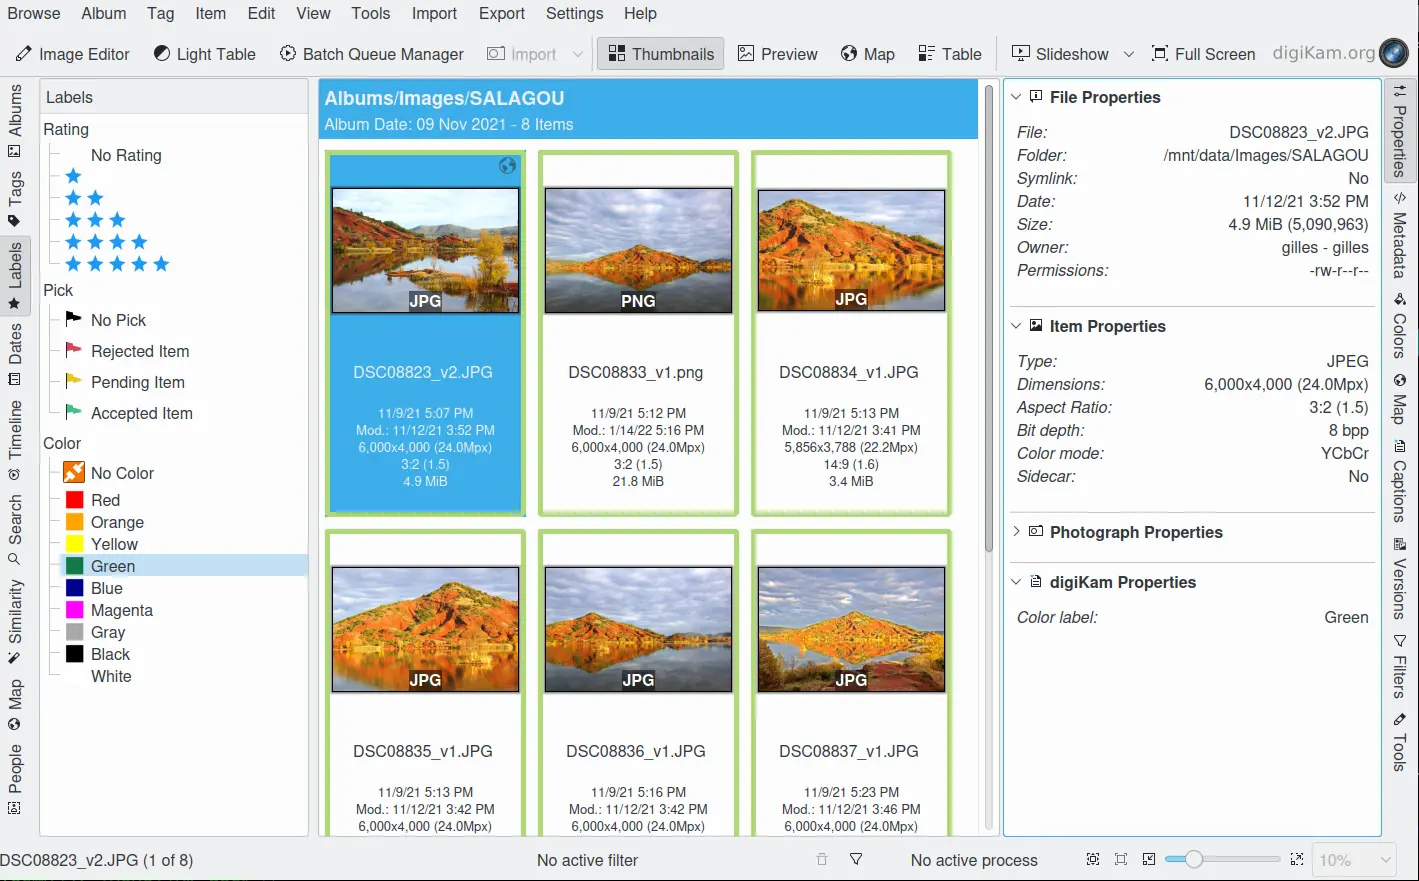
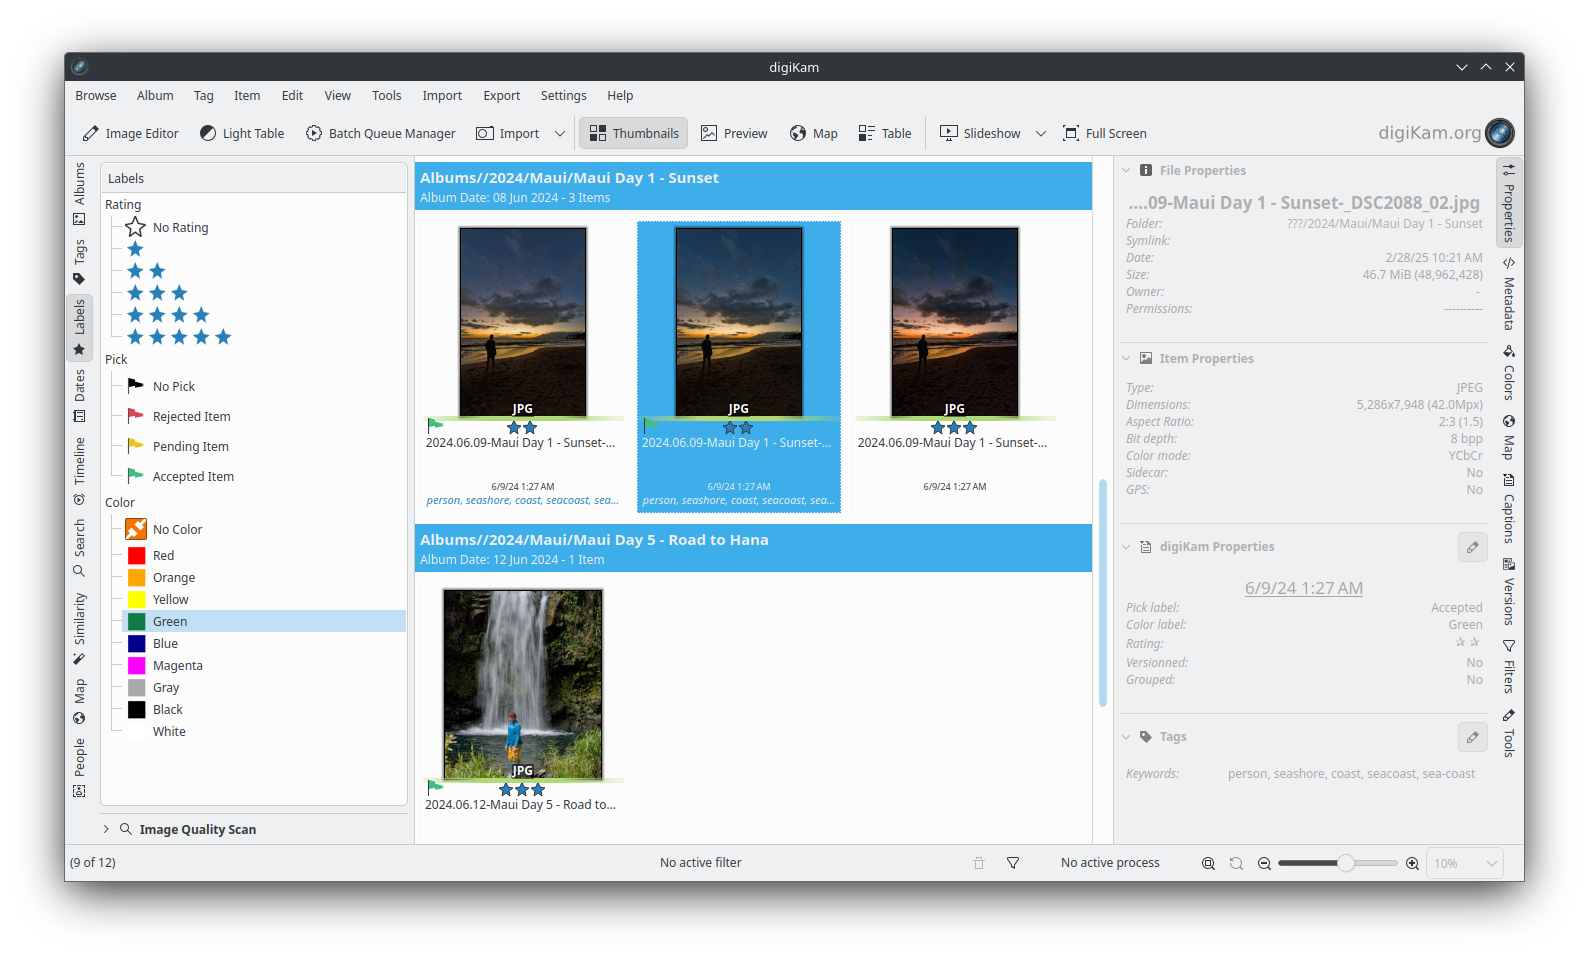
Labels view modified for 8.6.0
Labels view documentation modified for 8.6.0

diff --git a/left_sidebar/labels_view.rst b/left_sidebar/labels_view.rst
@@ -13,15 +13,47 @@
 :ref:`Labels View <left_sidebar>`
 =================================
 
+.. contents::
+
+.. _labels_selection:
+
+Label Selection
+---------------
+
+The Labels View allows you to select photographs by the **Rating**, **Pick** and **Color** Labels assigned to the image. 
+    - **Ratings** are displayed by stars.
+    - **Picks** are displayed by flags.
+    - **Colors** are displayed by colored line under the image.
+
 .. figure:: images/left_sidebar_labels_view.webp
     :alt:
     :align: center
 
-    The digiKam Labels View from Left Sidebar
+    The digiKam Labels View of Left Sidebar
 
-The Labels View allows you to select photographs by the **Rating**, **Pick** and **Color** Labels you assigned to them previously either by using:
+To filter your collection based on a label, click on a label in the left sidebar. All images with a matching label will be displayed in the main view. To remove the filter, click on the label header of the label you want to remove, such as Rating, Pick, or Color.
 
-    - The context menu of a thumbnail, or
+You may select more than one label by :kbd:`Ctrl+left` click. The selected labels within the same type are connected by boolean OR, e.g. selecting Three Stars and Four Stars will display all photographs that have either label assigned. Different types of labels are connected by boolean AND, e.g. selecting Four Stars and Yellow will display only photographs that have both labels assigned. You can perform even more sophisticated searches by using the **Filters** section of the :ref:`Right Sidebar <filters_view>`.
+
+.. figure:: images/left_sidebar_labels_filter.webp
+    :alt:
+    :align: center
+
+    The digiKam Labels left sidebar
+
+Using the image above as an example, digiKam will display all images Rated 3 OR 4 stars, AND with a Pick label of Pending OR Accepted. A color label was not selected, so all color labels are included in the search, including images with no color label assigned.
+
+.. tip::
+    The **Rating** and **Color** Labels can be used to sort items from your collection during your asset management workflow. See :ref:`this section <rating_ranking>` for details.
+
+.. _labels_assignment:
+
+Assigning Labels
+----------------
+
+There are two ways to assign labels to your photographs:
+
+    - Right-clicking on an image or a thumbnail displays the context menu of a thumbnail. From the context menu, you can assign a **Rating**, **Pick**, or **Color** label.
 
     .. figure:: images/left_sidebar_labels_context_menu.webp
         :alt:
@@ -37,16 +69,91 @@ The Labels View allows you to select photographs by the **Rating**, **Pick** and
 
         The digiKam Labels Options from Captions Right Sidebar Tab
 
-You may select more than one label by :kbd:`Ctrl+left` click. The selected labels are connected by boolean AND, e.g. selecting Four Star and Yellow will display only photographs that have both labels assigned. You can perform even more sophisticated searches by using the **Filters** section of the :ref:`Right Sidebar <filters_view>`.
+.. _label_imagescan:
 
-.. figure:: images/left_sidebar_labels_filters_tab.webp
+Automatically Assigning Pick Labels
+-----------------------------------
+
+digiKam can automatically assign **Pick Labels** to your images using the **Image Quality Scan** tool in the Labels View. The Image Quality Scan tool assess images using either a deep-learning neural network, or by using basic aesthetic factors. After scanning an image, digiKam will assign a **Pick Label** based on the quality of the image and the options you have selected in the **Settings** tab.
+
+    - The **Red** flag for **Rejected**.
+
+    - The **Yellow** flag for **Pending**.
+
+    - The **Green** flag for **Accepted**.
+
+To access the Image Quality Scan tool, click on **Image Quality Scan** at the bottom of the Labels View to expand the tool.
+
+.. _labels_search_in_tab:
+
+Search-in Tab
+-------------
+
+The **Search-in** tab lets you choose which albums and image tags to include in a scan.
+
+.. figure:: images/left_sidebar_labels_settings1.webp
     :alt:
     :align: center
+    :width: 300px
 
-    The digiKam Labels Filter from Right Sidebar
+    The digiKam Image Quality Scan Search-in View
 
-.. note::
 
-    The **Pick Labels** properties can be assigned automatically using the deep-learning tool **Image Quality Sorter** which works by analyzing the aesthetic score of items. See the :ref:`Maintenance Tool section <maintenance_quality>` for details.
+.. _labels_settings_tab:
 
-The **Rating** and **Color** Labels can be used to sort items from your collection during your asset management workflow. See :ref:`this section <rating_ranking>` for details.
+Settings Tab
+------------
+
+The **Settings** tab lets you control how the Image Quality Scan tool sets the **Pick** label. 
+
+.. figure:: images/left_sidebar_labels_settings2.webp
+    :alt:
+    :align: center
+    :width: 300px
+
+    The digiKam Image Quality Scan Settings View
+
+Scan Mode:
+~~~~~~~~~~
+
+    - **All**: Scan all images in the selected albums and tags.
+    - **Non-Assigned Only**: Scan only images that do not already have a Pick label in the selected albums and tags.
+
+Assign labels:
+~~~~~~~~~~~~~~
+
+    - Select which pick labels to assign to images. This is useful for letting digiKam automatically reject images that do not meet your quality standards, but still allow you to manually assign the other labels.
+
+Quality Engine:
+~~~~~~~~~~~~~~~
+
+    - **Detect Aesthetic Contents**: Uses the deep-learning neural network to assess the aesthetic quality of images.
+    - **Detect by Basic Factors**: Uses basic factors such as blur, noise, and exposure to assess image quality.
+
+**Detect Aesthetic Contents** uses an artificial intelligence engine based on `this model <https://expertphotography.com/aesthetic-photography/>`_ to predict an aesthetic score. As deep-learning is an end-to-end solution, it doesn’t require hyper-parameter settings, which makes this approach far easier to use.
+
+.. important::
+
+   The **Detect Aesthetic Contents** option needs to download the deep-learning model from the web. This file can either be downloaded when digiKam is first run (see :ref:`the Quick Start section <quick_start>` for details), or the file can be downloaded by clicking on the **Download required binary data** button on the :menuselection:`Settings --> Miscellaneous --> System` page.
+
+Work on all processor cores
+~~~~~~~~~~~~~~~~~~~~~~~~~~~
+
+The Image Quality Scan can be a time-consuming task depending on the size of your library and filtering selected in **Search-in**. It is recommended to use all processor cores.  This will make the process run faster, but it can potentially make other processes run slower and make your computer feel unresponsive while images are being processed. You can uncheck **Work on all processor cores** if your machine is slow and you want to perform other tasks while the scan is running.
+
+.. tip::
+   Because of technical limitations on Windows, multi-core support for MySQL/MariaDB databases does not perform well. For better performance, we recommend using a SQLite database instead.
+
+Basic Factors Tab
+-----------------
+
+The **Basic Factors** tab lets you control how the selected qualities influence the rating the **Pick** label. The basic factors are only used when the **Quality Engine** is set to **Detect by Basic Factors**.
+
+.. figure:: images/left_sidebar_labels_settings3.webp
+    :alt:
+    :align: center
+    :width: 300px
+
+    The digiKam Image Quality Scan Basic Factors View
+
+The **Basic Factors** method uses four basic factors to rate each image: **Blur, Noise, Exposure, and Compression**. Using basic factors, however, requires fine-tuning by the user and it does not include any assessment of the aesthetic value of the image.

diff --git a/left_sidebar/people_view.rst b/left_sidebar/people_view.rst
@@ -23,7 +23,6 @@ The face management workflow helps you identify and recognize people in your pho
 
    For face management to work correctly, digiKam needs to download the deep-learning models from the web. These files can either be downloaded when digiKam is first run (see :ref:`the Quick Start section <quick_start>` for details), or the files can be downloaded by clicking on the **Download required binary data** button on the :menuselection:`Settings --> Miscellaneous --> System` page.
 
-
 .. _face_detection:
 
 Face Detection
@@ -297,9 +296,9 @@ Search-in Tab
 
 The **Search-in** tab lets you choose which albums and image tags to include in a scan. You can select specific albums or tags for detection and recognition.
 
-- For **detection**, digiKam will scan the images selected in the filter for faces.
+- For **Scan all images** and **Scan new images** , digiKam will scan the images selected in the filter for faces.
 
-- For **recognition**, digiKam will attempt to match **Unknown** and **Unconfirmed** face tags in the images included in the filter with all confirmed face tags.
+- For **Recognize faces only**, digiKam will attempt to match **Unknown** and **Unconfirmed** face tags in the images included in the filter with all confirmed face tags.
 
 .. figure:: images/left_sidebar_faces_settings2.webp
     :alt:
@@ -345,7 +344,7 @@ Work on all processor cores
 Face detection and face recognition can be time-consuming tasks depending on the size of your library and filtering selected in **Search-in**. It is recommended to use all processor cores.  This will make the process run faster, but it can potentially make other processes run slower and make your computer feel unresponsive while faces are being processed. You can uncheck **Work on all processor cores** if your machine is slow and you want to perform other tasks while the face scan is running.
 
 .. tip::
-   Because of technical limitations on Windows, multi-core support for MySQL/MariaDB databases does not perform well. For better performance, we recommend using an SQLite database instead.
+   Because of technical limitations on Windows, multi-core support for MySQL/MariaDB databases does not perform well. For better performance, we recommend using a SQLite database instead.
 
 Special Cases
 -------------
